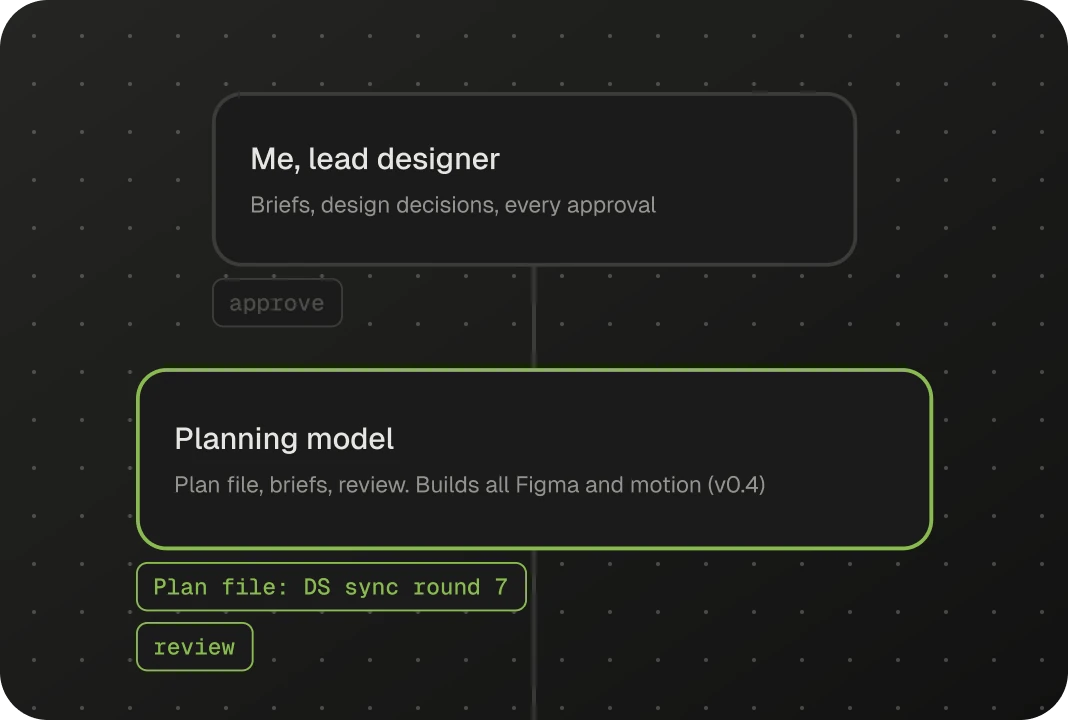
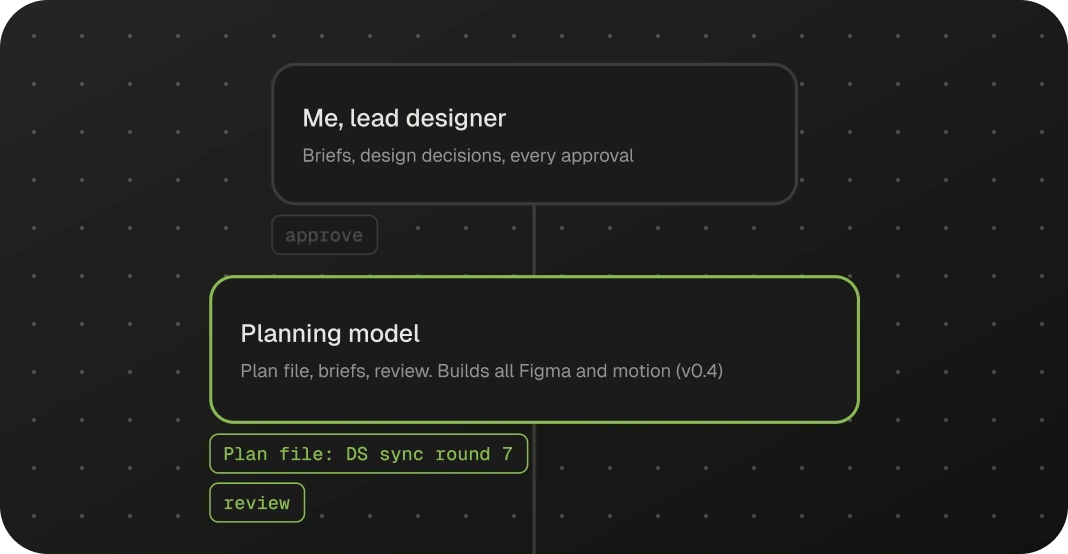
Home: shorter covers (277 px) for the SynthUX design system and AI process cards, from Figma
Claude-Session: https://claude.ai/code/session_01FZMfueikXKdp8KAjG5FBeS

diff --git a/app/src/components/WorkCard/WorkCard.module.scss b/app/src/components/WorkCard/WorkCard.module.scss
@@ -28,6 +28,11 @@
   height: 360px;
 }
 
+// SynthUX half cards, Figma "DS cover-smaller" / "Process cover - smaller" (534×277)
+.coverCompact {
+  height: 277px;
+}
+
 .coverSmall {
   height: 250px;
 }
@@ -97,7 +102,7 @@
   background-size: cover;
 }
 
-// Cover 2: Figma 249:64432. Content sits on the left, so the crop is anchored left.
+// Cover 2: Figma 272:66982 (smaller). Content sits on the left, so the crop is anchored left.
 .synthuxDesignSystemCover {
   background-color: #111;
   background-image: url("./assets/synthux/cover-design-system.webp");
@@ -105,11 +110,11 @@
   background-size: cover;
 }
 
-// Cover 3: Figma 249:64447. Crop keeps the start of both agent cards in view.
+// Cover 3: Figma 272:66994 (smaller). Agent cards sit in the middle, so the crop is centred.
 .synthuxAiProcessCover {
   background-color: #111;
   background-image: url("./assets/synthux/cover-ai-process.webp");
-  background-position: 25% 0;
+  background-position: 50% 0;
   background-size: cover;
 }
 

diff --git a/app/src/components/WorksGrid/works-data.ts b/app/src/components/WorksGrid/works-data.ts
@@ -20,6 +20,8 @@ export type TProject = {
   link: string
   size: "large" | "medium" | "small"
   externalLink?: string
+  // Shorter cover (277 px), used by the SynthUX half cards
+  compactCover?: boolean
   // Hidden on the live site until the case is approved (see synthuxCases.ts)
   hidden?: boolean
 }
@@ -53,6 +55,7 @@ const allProjects: TProject[] = [
     coverClass: "synthuxDesignSystemCover",
     link: SYNTHUX_DESIGN_SYSTEM_PATH,
     size: "medium",
+    compactCover: true,
     hidden: !isCaseVisible("designSystem"),
   },
   {
@@ -66,6 +69,7 @@ const allProjects: TProject[] = [
     coverClass: "synthuxAiProcessCover",
     link: SYNTHUX_AI_PROCESS_PATH,
     size: "medium",
+    compactCover: true,
     hidden: !isCaseVisible("aiProcess"),
   },
   {

diff --git a/app/src/components/WorkCard/WorkCard.tsx b/app/src/components/WorkCard/WorkCard.tsx
@@ -27,7 +27,11 @@ export const WorkCard = ({ project }: TWorkCardProps) => {
   const ref = useScrollReveal<HTMLDivElement>()
 
   const isSmall = project.size === "small"
-  const coverSizeClass = isSmall ? styles.coverSmall : styles.coverLarge
+  const coverSizeClass = isSmall
+    ? styles.coverSmall
+    : project.compactCover
+      ? styles.coverCompact
+      : styles.coverLarge
 
   const content = (
     <div ref={ref} className="scroll-reveal">
